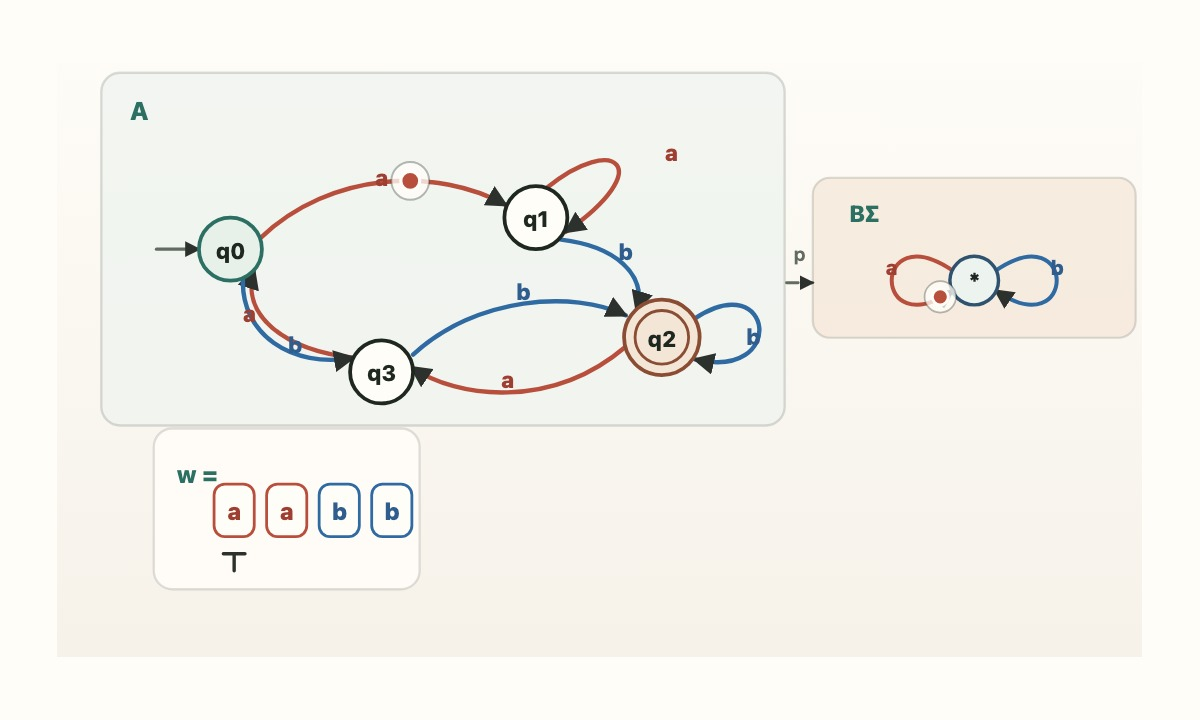
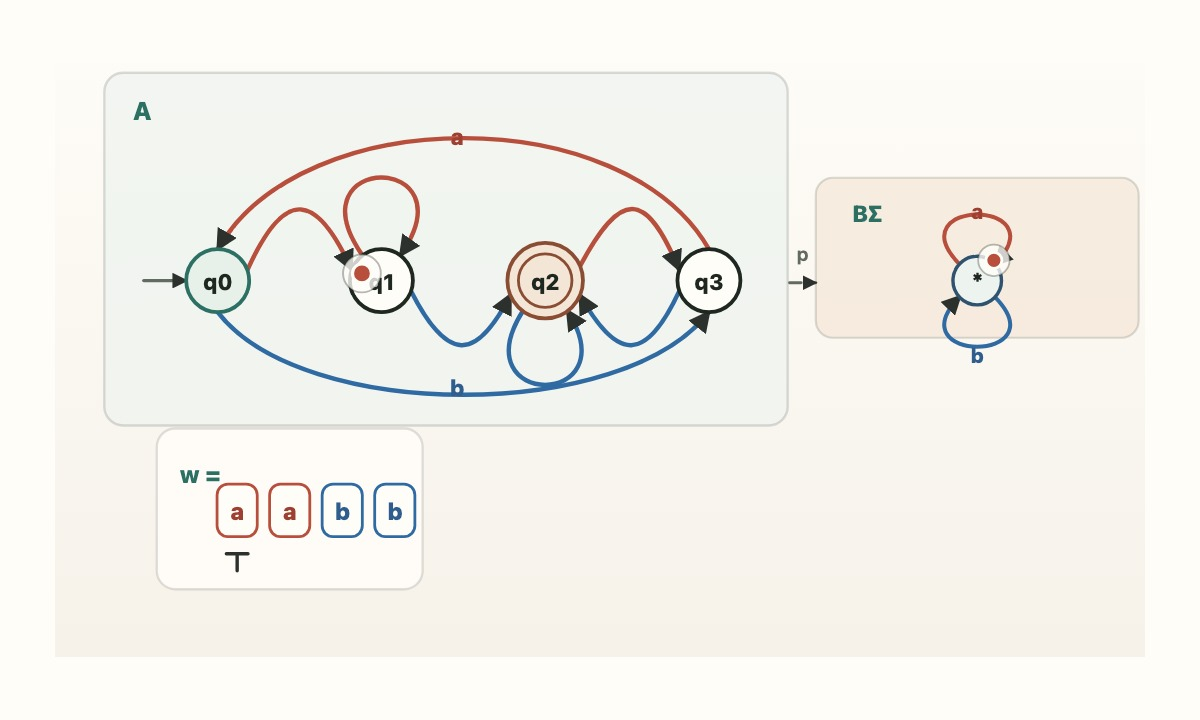
Refine automata figure and examples

diff --git a/scripts/site.js b/scripts/site.js
@@ -7743,10 +7743,11 @@ const paperFigureTemplates = {
       </g>
       <g class="quotient-system quotient-system-infinite" transform="translate(110 265)">
         <path class="figure-line dashed" d="M0 0 H540"></path>
-        <path class="figure-line" d="M115 0 H255 L312 45 H455"></path>
-        <g><circle class="figure-dot ghost-fill" cx="115" cy="0" r="5"></circle><circle class="figure-dot ghost-fill" cx="185" cy="0" r="5"></circle><circle class="figure-dot ghost-fill" cx="255" cy="0" r="5"></circle><circle class="figure-dot ghost-fill" cx="312" cy="45" r="5"></circle><circle class="figure-dot ghost-fill" cx="385" cy="45" r="5"></circle><circle class="figure-dot ghost-fill" cx="455" cy="45" r="5"></circle></g>
-        <path class="quotient-guide quotient-infinite-guide" d="M115 0 H185 H255 L312 45 H385 H455"></path>
-        ${quotientStepLights(["M115 0 H185", "M185 0 H255", "M255 0 L312 45", "M312 45 H385", "M385 45 H455", "M455 45 H515"], "blue")}
+        <path class="figure-line dashed" d="M0 45 H228"></path>
+        <path class="figure-line" d="M35 45 H110 H178 H228 L285 0 H425"></path>
+        <g><circle class="figure-dot ghost-fill" cx="35" cy="45" r="5"></circle><circle class="figure-dot ghost-fill" cx="110" cy="45" r="5"></circle><circle class="figure-dot ghost-fill" cx="178" cy="45" r="5"></circle><circle class="figure-dot ghost-fill" cx="228" cy="45" r="5"></circle><circle class="figure-dot ghost-fill" cx="285" cy="0" r="5"></circle><circle class="figure-dot ghost-fill" cx="355" cy="0" r="5"></circle><circle class="figure-dot ghost-fill" cx="425" cy="0" r="5"></circle></g>
+        <path class="quotient-guide quotient-infinite-guide" d="M35 45 H110 H178 H228 L285 0 H355 H425"></path>
+        ${quotientStepLights(["M-35 45 H35", "M35 45 H110", "M110 45 H178", "M178 45 H228", "M228 45 L285 0", "M285 0 H355", "M355 0 H425", "M425 0 H515"], "blue")}
         <text class="figure-small quotient-label quotient-infinite-label" x="34" y="82">infinite height</text>
       </g>
     </svg>
@@ -7820,33 +7821,50 @@ const paperFigureTemplates = {
       </defs>
       <g transform="translate(22 18)">
         <g class="automata-input-tape" transform="translate(54 248) scale(1.06)">
-          <rect class="automata-input-panel" x="0" y="0" width="172" height="104" rx="12"></rect>
-          <text class="figure-small automata-input-label" x="28" y="35">w =</text>
-          <g transform="translate(52 54)">
+          <rect class="automata-input-panel" x="0" y="0" width="270" height="104" rx="12"></rect>
+          <text class="figure-small automata-input-label" x="28" y="34">w =</text>
+          <g transform="translate(62 34)">
             <g class="automata-input-symbol automata-input-symbol-a" transform="translate(0 0)">
               <animate attributeName="opacity" dur="8s" repeatCount="indefinite" values="1;1;0.2;0.2;1" keyTimes="0;0.24;0.25;0.99;1"></animate>
-              <rect x="-13" y="-18" width="26" height="34" rx="7"></rect>
+              <rect x="-12" y="-16" width="24" height="30" rx="7"></rect>
               <text class="figure-small" x="0" y="5">a</text>
             </g>
             <g class="automata-input-symbol automata-input-symbol-a" transform="translate(34 0)">
               <animate attributeName="opacity" dur="8s" repeatCount="indefinite" values="1;1;0.2;0.2;1" keyTimes="0;0.49;0.5;0.99;1"></animate>
-              <rect x="-13" y="-18" width="26" height="34" rx="7"></rect>
+              <rect x="-12" y="-16" width="24" height="30" rx="7"></rect>
               <text class="figure-small" x="0" y="5">a</text>
             </g>
             <g class="automata-input-symbol automata-input-symbol-b" transform="translate(68 0)">
               <animate attributeName="opacity" dur="8s" repeatCount="indefinite" values="1;1;0.2;0.2;1" keyTimes="0;0.74;0.75;0.99;1"></animate>
-              <rect x="-13" y="-18" width="26" height="34" rx="7"></rect>
+              <rect x="-12" y="-16" width="24" height="30" rx="7"></rect>
               <text class="figure-small" x="0" y="5">b</text>
             </g>
             <g class="automata-input-symbol automata-input-symbol-b" transform="translate(102 0)">
               <animate attributeName="opacity" dur="8s" repeatCount="indefinite" values="1;1;0.2;0.2;1" keyTimes="0;0.94;0.95;0.99;1"></animate>
-              <rect x="-13" y="-18" width="26" height="34" rx="7"></rect>
+              <rect x="-12" y="-16" width="24" height="30" rx="7"></rect>
               <text class="figure-small" x="0" y="5">b</text>
             </g>
-            <g class="automata-input-head" transform="translate(0 27)">
-              <animateTransform attributeName="transform" type="translate" dur="8s" repeatCount="indefinite" values="0 27;0 27;34 27;34 27;68 27;68 27;102 27;102 27;136 27;136 27;0 27" keyTimes="0;0.24;0.25;0.49;0.5;0.74;0.75;0.94;0.95;0.99;1"></animateTransform>
+            <text class="figure-small automata-language-mark automata-language-accept" x="144" y="5">accept</text>
+            <g class="automata-input-head" transform="translate(0 24)">
+              <animateTransform attributeName="transform" type="translate" dur="8s" repeatCount="indefinite" values="0 24;0 24;34 24;34 24;68 24;68 24;102 24;102 24;136 24;136 24;0 24" keyTimes="0;0.24;0.25;0.49;0.5;0.74;0.75;0.94;0.95;0.99;1"></animateTransform>
               <path d="M-7 0 H7 M0 0 V11"></path>
             </g>
+          </g>
+          <text class="figure-small automata-input-label" x="28" y="77">u =</text>
+          <g transform="translate(62 77)">
+            <g class="automata-input-symbol automata-input-symbol-a" transform="translate(0 0)">
+              <rect x="-12" y="-16" width="24" height="30" rx="7"></rect>
+              <text class="figure-small" x="0" y="5">a</text>
+            </g>
+            <g class="automata-input-symbol automata-input-symbol-b" transform="translate(34 0)">
+              <rect x="-12" y="-16" width="24" height="30" rx="7"></rect>
+              <text class="figure-small" x="0" y="5">b</text>
+            </g>
+            <g class="automata-input-symbol automata-input-symbol-a" transform="translate(68 0)">
+              <rect x="-12" y="-16" width="24" height="30" rx="7"></rect>
+              <text class="figure-small" x="0" y="5">a</text>
+            </g>
+            <text class="figure-small automata-language-mark automata-language-reject" x="110" y="5">reject</text>
           </g>
         </g>
 
@@ -7854,71 +7872,65 @@ const paperFigureTemplates = {
           <rect class="automata-panel automata-panel-total" x="0" y="0" width="434" height="224" rx="12"></rect>
           <text class="figure-small automata-panel-title" x="24" y="30">A</text>
 
-          <path class="figure-arrow automata-edge automata-edge-a" d="M101 105 C146 62, 214 60, 257 84"></path>
-          <path class="figure-arrow automata-edge automata-edge-a" d="M283 73 C326 38, 354 60, 295 101"></path>
-          <path class="figure-arrow automata-edge automata-edge-a" d="M333 174 C286 214, 226 207, 197 187"></path>
-          <path class="figure-arrow automata-edge automata-edge-a" d="M160 181 C116 176, 88 154, 97 125"></path>
+          <path class="figure-arrow automata-edge automata-edge-a" d="M91 125 C114 74, 134 74, 157 125"></path>
+          <path class="figure-arrow automata-edge automata-edge-a" d="M164 116 C118 50, 234 50, 188 116"></path>
+          <path class="figure-arrow automata-edge automata-edge-a" d="M302 123 C328 74, 344 74, 365 125"></path>
+          <path class="figure-arrow automata-edge automata-edge-a" d="M384 112 C330 18, 126 18, 72 112"></path>
 
-          <path class="figure-arrow automata-edge automata-edge-b" d="M90 130 C88 166, 121 188, 160 181"></path>
-          <path class="figure-arrow automata-edge automata-edge-b" d="M292 106 C326 110, 347 128, 340 151"></path>
-          <path class="figure-arrow automata-edge automata-edge-b" d="M377 156 C427 123, 436 196, 377 182"></path>
-          <path class="figure-arrow automata-edge automata-edge-b" d="M198 179 C238 142, 300 138, 333 154"></path>
+          <path class="figure-arrow automata-edge automata-edge-b" d="M72 152 C126 222, 330 222, 384 152"></path>
+          <path class="figure-arrow automata-edge automata-edge-b" d="M195 139 C218 184, 236 184, 258 141"></path>
+          <path class="figure-arrow automata-edge automata-edge-b" d="M266 151 C226 214, 334 214, 294 151"></path>
+          <path class="figure-arrow automata-edge automata-edge-b" d="M365 139 C344 184, 326 184, 302 141"></path>
 
-          <path class="figure-arrow automata-start-arrow" d="M35 112 H62"></path>
+          <path class="figure-arrow automata-start-arrow" d="M25 132 H52"></path>
 
-          <g class="automata-state" transform="translate(82 112)">
+          <g class="automata-state" transform="translate(72 132)">
             <circle class="figure-node soft" cx="0" cy="0" r="20"></circle>
             <text class="figure-small" x="0" y="6">q0</text>
           </g>
-          <g class="automata-state" transform="translate(276 92)">
+          <g class="automata-state" transform="translate(176 132)">
             <circle class="figure-node" cx="0" cy="0" r="20"></circle>
             <text class="figure-small" x="0" y="6">q1</text>
           </g>
-          <g class="automata-state automata-state-accepting" transform="translate(356 168)">
+          <g class="automata-state automata-state-accepting" transform="translate(280 132)">
             <circle class="figure-node warm" cx="0" cy="0" r="24"></circle>
             <circle class="automata-accept-ring" cx="0" cy="0" r="17"></circle>
             <text class="figure-small" x="0" y="6">q2</text>
           </g>
-          <g class="automata-state" transform="translate(178 190)">
+          <g class="automata-state" transform="translate(384 132)">
             <circle class="figure-node" cx="0" cy="0" r="20"></circle>
             <text class="figure-small" x="0" y="6">q3</text>
           </g>
 
           <g class="automata-moving-dot automata-moving-dot-cover">
-            <animateMotion dur="8s" repeatCount="indefinite" path="M82 112 L101 105 C146 62, 214 60, 257 84 L276 92 L283 73 C326 38, 354 60, 295 101 L276 92 L292 106 C326 110, 347 128, 340 151 L356 168 L377 156 C427 123, 436 196, 377 182 L356 168"></animateMotion>
+            <animateMotion dur="8s" repeatCount="indefinite" path="M72 132 L91 125 C114 74, 134 74, 157 125 L176 132 L164 116 C118 50, 234 50, 188 116 L176 132 L195 139 C218 184, 236 184, 258 141 L280 132 L266 151 C226 214, 334 214, 294 151 L280 132"></animateMotion>
             <circle class="automata-moving-dot-halo" cx="0" cy="0" r="12"></circle>
             <circle class="automata-moving-dot-core" cx="0" cy="0" r="6">
               <animate attributeName="fill" dur="8s" repeatCount="indefinite" values="#b84f3c;#b84f3c;#2f6aa3;#2f6aa3;#b84f3c" keyTimes="0;0.5;0.5001;0.99;1"></animate>
             </circle>
           </g>
 
-          <text class="figure-small automata-edge-label automata-edge-label-a" x="178" y="72">a</text>
-          <text class="figure-small automata-edge-label automata-edge-label-a" x="362" y="56">a</text>
-          <text class="figure-small automata-edge-label automata-edge-label-a" x="258" y="200">a</text>
-          <text class="figure-small automata-edge-label automata-edge-label-a" x="94" y="158">a</text>
-          <text class="figure-small automata-edge-label automata-edge-label-b" x="123" y="178">b</text>
-          <text class="figure-small automata-edge-label automata-edge-label-b" x="333" y="119">b</text>
-          <text class="figure-small automata-edge-label automata-edge-label-b" x="414" y="173">b</text>
-          <text class="figure-small automata-edge-label automata-edge-label-b" x="268" y="144">b</text>
+          <text class="figure-small automata-edge-label automata-edge-label-a" x="224" y="46">a</text>
+          <text class="figure-small automata-edge-label automata-edge-label-b" x="224" y="205">b</text>
         </g>
 
         <g transform="translate(506 76) scale(0.98)">
           <rect class="automata-panel automata-panel-base" x="0" y="0" width="226" height="112" rx="12"></rect>
           <text class="figure-small automata-panel-title" x="36" y="31">B&#931;</text>
           <g transform="translate(113 72)">
-            <path class="figure-arrow automata-edge automata-edge-a" d="M-15 -7 C-72 -46, -72 46, -15 7"></path>
-            <path class="figure-arrow automata-edge automata-edge-b" d="M15 -7 C72 -46, 72 46, 15 7"></path>
+            <path class="figure-arrow automata-edge automata-edge-a" d="M-12 -11 C-58 -58, 58 -58, 12 -11"></path>
+            <path class="figure-arrow automata-edge automata-edge-b" d="M12 11 C58 58, -58 58, -12 11"></path>
             <circle class="figure-node soft-2" cx="0" cy="0" r="17"></circle>
             <text class="figure-small" x="0" y="6">*</text>
             <g class="automata-moving-dot automata-moving-dot-base">
-              <animateMotion dur="8s" repeatCount="indefinite" path="M0 0 C-72 -46, -72 46, 0 0 C-72 -46, -72 46, 0 0 C72 -46, 72 46, 0 0 C72 -46, 72 46, 0 0"></animateMotion>
+              <animateMotion dur="8s" repeatCount="indefinite" path="M0 0 C-58 -58, 58 -58, 0 0 C-58 -58, 58 -58, 0 0 C58 58, -58 58, 0 0 C58 58, -58 58, 0 0"></animateMotion>
               <circle class="automata-moving-dot-halo" cx="0" cy="0" r="11"></circle>
               <circle class="automata-moving-dot-core" cx="0" cy="0" r="5.6">
                 <animate attributeName="fill" dur="8s" repeatCount="indefinite" values="#b84f3c;#b84f3c;#2f6aa3;#2f6aa3;#b84f3c" keyTimes="0;0.5;0.5001;0.99;1"></animate>
               </circle>
             </g>
-            <text class="figure-small automata-edge-label automata-edge-label-a" x="-58" y="-4">a</text>
-            <text class="figure-small automata-edge-label automata-edge-label-b" x="58" y="-4">b</text>
+            <text class="figure-small automata-edge-label automata-edge-label-a" x="0" y="-43">a</text>
+            <text class="figure-small automata-edge-label automata-edge-label-b" x="0" y="58">b</text>
           </g>
         </g>
 

diff --git a/styles.css b/styles.css
@@ -3276,6 +3276,19 @@ a.position-link:hover {
   fill: #2f5d8e;
 }
 
+.automata-language-mark {
+  font-size: 12.5px;
+  font-weight: 850;
+}
+
+.automata-language-accept {
+  fill: #2c6f63;
+}
+
+.automata-language-reject {
+  fill: #8a4d34;
+}
+
 .automata-input-head path {
   fill: none;
   stroke: #2c312d;
@@ -4589,7 +4602,7 @@ a.position-link:hover {
   font-size: clamp(0.58rem, 1.35vw, 0.92rem);
   opacity: 0;
   pointer-events: none;
-  animation-duration: var(--tensor-cycle);
+  animation-duration: 8s;
   animation-iteration-count: infinite;
   animation-timing-function: ease-in-out;
 }
@@ -4671,8 +4684,6 @@ a.position-link:hover {
 
 .tensor-factorization-figure .tensor-image-node.factor {
   opacity: 0;
-  transform-box: fill-box;
-  transform-origin: center;
   animation: tensor-image-node-stage var(--tensor-cycle) ease-in-out infinite;
 }
 
@@ -4809,7 +4820,7 @@ a.position-link:hover {
   }
 
   34%,
-  54% {
+  46% {
     opacity: 0.88;
     stroke: var(--tensor-active);
     stroke-dasharray: 1;
@@ -4817,13 +4828,13 @@ a.position-link:hover {
     stroke-width: 4.4;
   }
 
-  68%,
+  58%,
   100% {
-    opacity: 0.08;
-    stroke: rgba(43, 52, 43, 0.16);
-    stroke-dasharray: 0.16 0.84;
-    stroke-dashoffset: -0.72;
-    stroke-width: 1.6;
+    opacity: 0.025;
+    stroke: rgba(43, 52, 43, 0.1);
+    stroke-dasharray: 0.04 0.96;
+    stroke-dashoffset: -0.9;
+    stroke-width: 1;
   }
 }
 
@@ -4901,13 +4912,11 @@ a.position-link:hover {
   0%,
   38% {
     opacity: 0;
-    transform: scale(0.58);
   }
 
   52%,
   100% {
     opacity: 1;
-    transform: scale(1);
   }
 }
 
